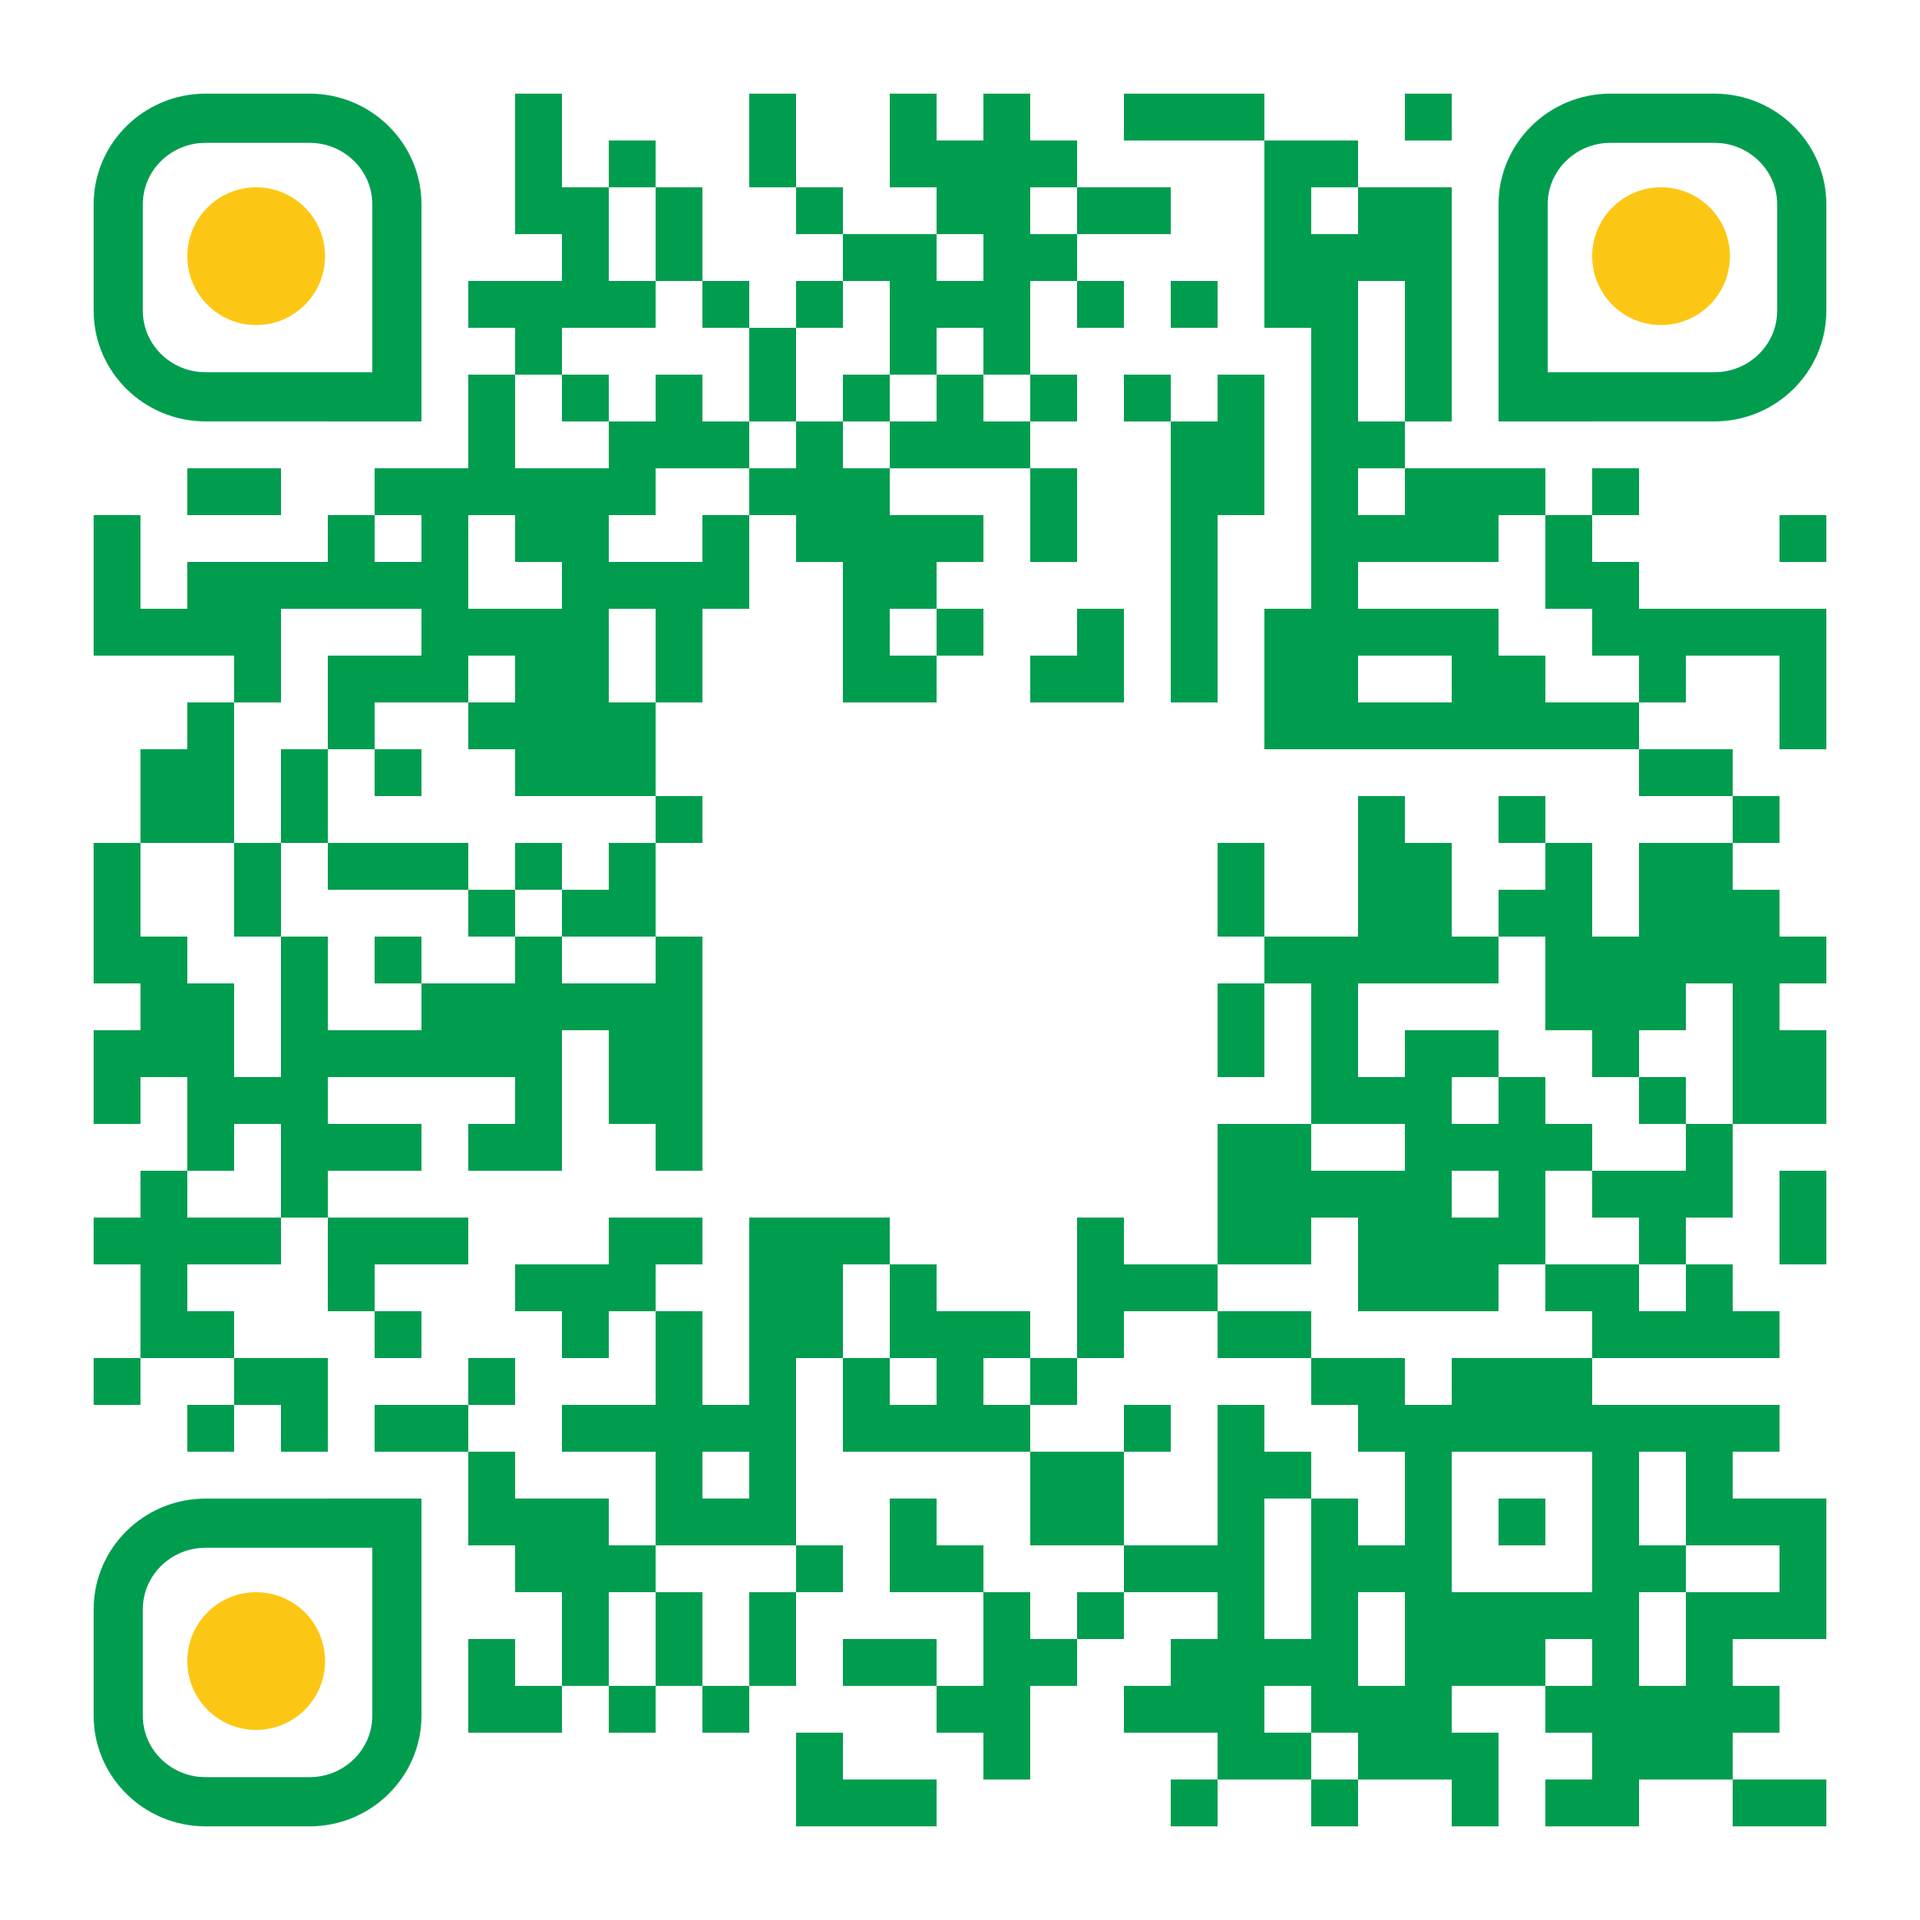
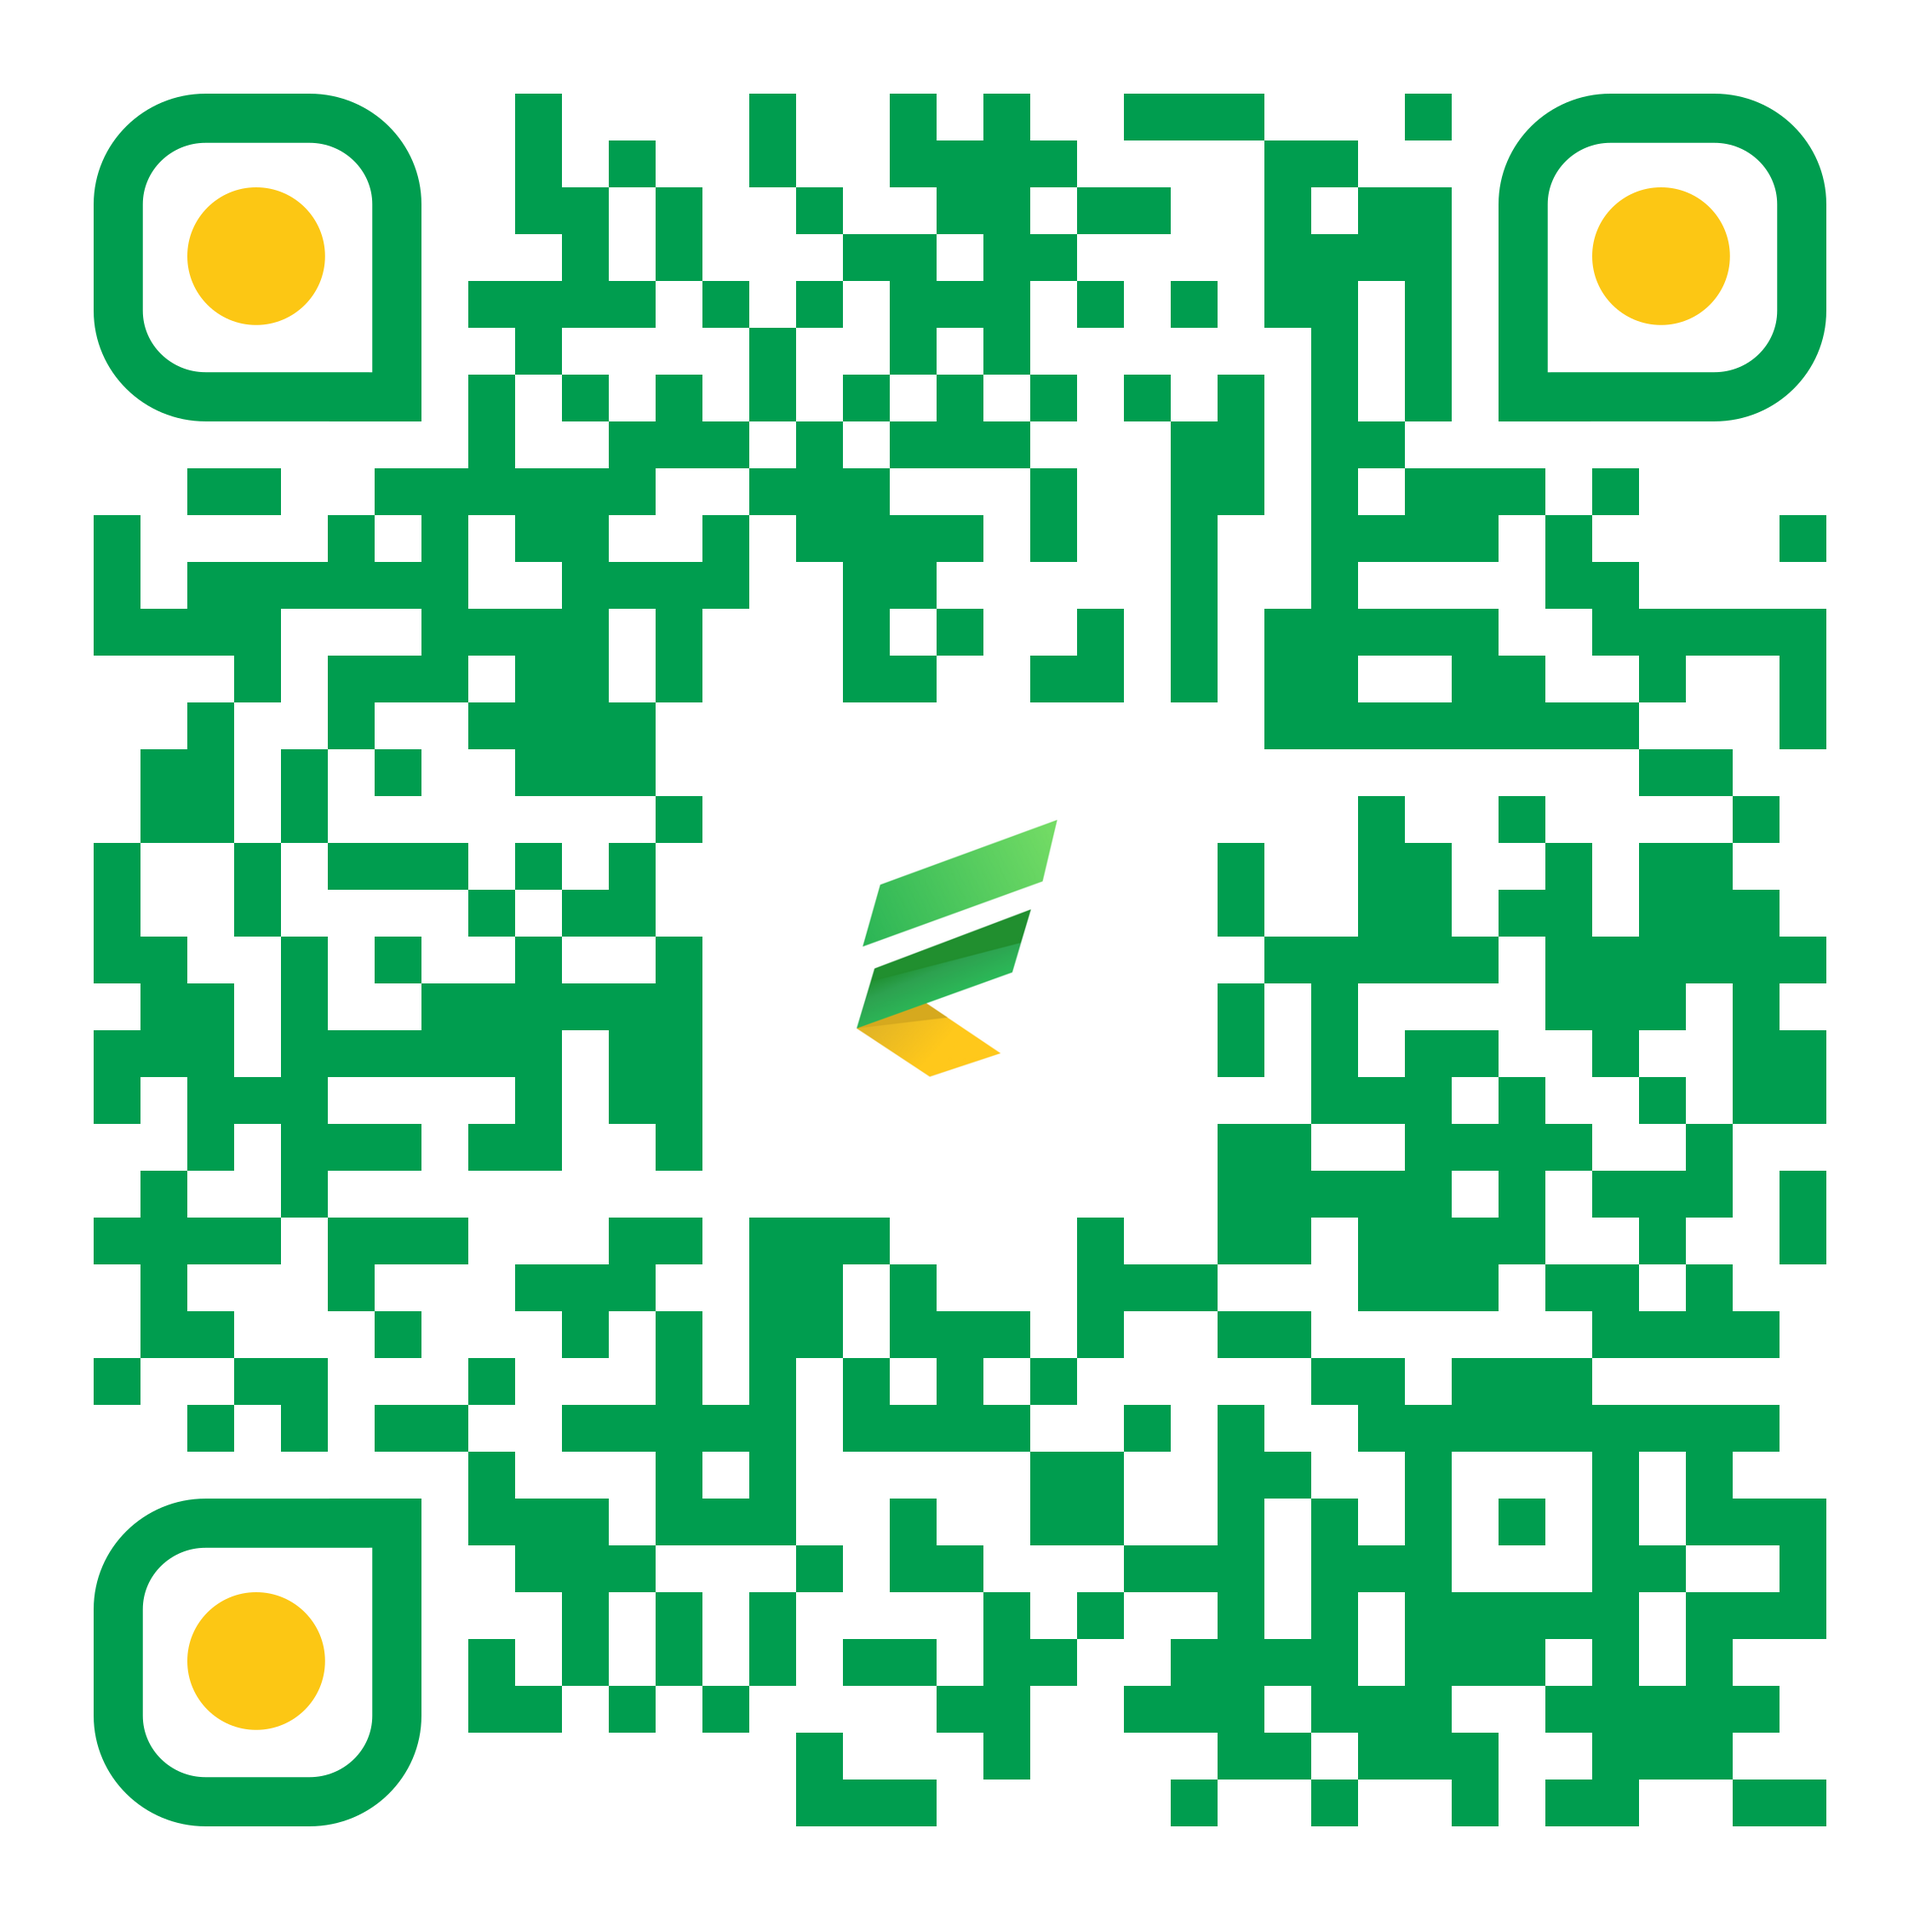
feat: update source

Changed region(s): [[0.4346, 0.4346, 0.5588, 0.5588]]

diff --git a/helper.ts b/helper.ts
@@ -40,7 +40,7 @@ export const generateQR = async (data: string): Promise<string> => {
         gradientColor2: "#009D4F",
         gradientType: "linear",
         gradientOnEyes: false,
-        logo: "98d0d71b6cdb8125f7848c412b2ad74329851266.png",
+        logo: "https://i.ibb.co/WpMCTdZD/no-text.png", // logo f-code
         logoMode: "clean",
       },
       size: 2000,
